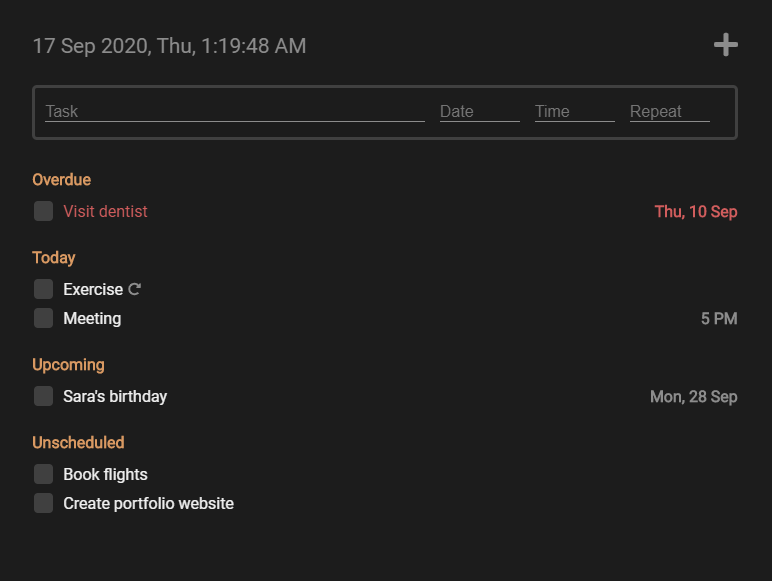
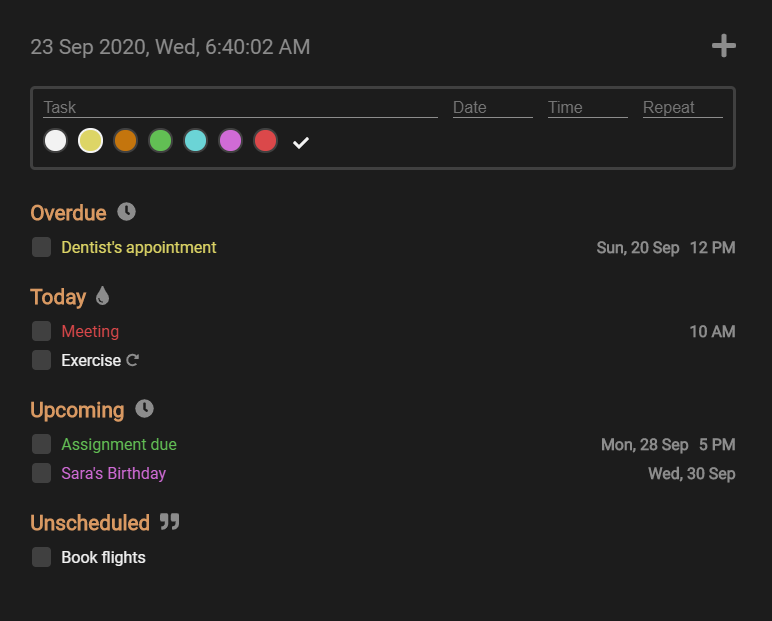
Lists can now be sorted

diff --git a/src/components/screens/MainScreen.tsx b/src/components/screens/MainScreen.tsx
@@ -4,6 +4,7 @@ import { useSelector } from "react-redux";
 import Todo from "../Todo";
 import TopBar from "../Topbar";
 import AddTodoBox from "../AddTodoBox";
+import Category from "../Category";
 import { getTodos } from "../../selectors";
 
 const MainScreen: React.FC = () => {
@@ -14,12 +15,6 @@ const MainScreen: React.FC = () => {
   let upcomingTodoList = [];
   let unscheduledTodoList = [];
   let overdueTodoList = [];
-
-  const dateSorter = (a: any, b: any) => {
-    let dateA = new Date(a.props.todo.date + " " + a.props.todo.time);
-    let dateB = new Date(b.props.todo.date + " " + b.props.todo.time);
-    return dateA.getTime() - dateB.getTime();
-  };
 
   const isToday = (dateTimeString: string) => {
     let currDate = new Date(new Date().toDateString());
@@ -49,33 +44,15 @@ const MainScreen: React.FC = () => {
     }
   }
 
-  // sort the lists
-  todayTodoList.sort(dateSorter);
-  overdueTodoList.sort(dateSorter);
-  upcomingTodoList.sort(dateSorter);
-
-  const renderCategory = (title: string, list: any[]) => {
-    if (list.length > 0) {
-      return (
-        <div className="category-container">
-          <h1 className="category-heading">{title}</h1>
-          {list}
-        </div>
-      )
-    } else {
-      return null;
-    }
-  }
-
   return (
     <div className="display-container">
       <div className="display-content">
         <TopBar/>
         <AddTodoBox />
-        {renderCategory("Overdue", overdueTodoList)}
-        {renderCategory("Today", todayTodoList)}
-        {renderCategory("Upcoming", upcomingTodoList)}
-        {renderCategory("Unscheduled", unscheduledTodoList)}
+        <Category title="Overdue" todos={overdueTodoList} sort={1}/>
+        <Category title="Today" todos={todayTodoList} sort={0}/>
+        <Category title="Upcoming" todos={upcomingTodoList} sort={1}/>
+        <Category title="Unscheduled" todos={unscheduledTodoList} sort={2}/>
       </div>
     </div>
   )

diff --git a/src/components/Category.tsx b/src/components/Category.tsx
@@ -1,0 +1,59 @@
+import * as React from "react";
+import { useState } from "react"
+import { FontAwesomeIcon } from "@fortawesome/react-fontawesome"
+import { faTint, faClock, faQuoteRight } from "@fortawesome/free-solid-svg-icons"
+
+import { CategoryProps } from "../types";
+
+const Category: React.FC<CategoryProps> = ({ todos, title, sort }) => {
+
+  const [sorterIndex, setSorterIndex] = useState(sort);
+
+  const sorters = [
+    (a: any, b: any) => { // color sorter
+      return (a.props.todo.color.localeCompare(b.props.todo.color));
+    },
+    (a: any, b: any) => { // date sorter
+      let dateA = new Date(a.props.todo.date + " " + a.props.todo.time);
+      let dateB = new Date(b.props.todo.date + " " + b.props.todo.time);
+      return dateA.getTime() - dateB.getTime();
+    },
+    (a: any, b: any) => { // body sorter
+      return (a.props.todo.body.localeCompare(b.props.todo.body));
+    },
+  ];
+
+  const cycleSorter = () => {
+    setSorterIndex((sorterIndex + 1) % sorters.length);
+  }
+
+  const renderCycleButton = () => {
+    const icons = [
+      <FontAwesomeIcon icon={faTint} onClick={cycleSorter} />,
+      <FontAwesomeIcon icon={faClock} onClick={cycleSorter} />,
+      <FontAwesomeIcon icon={faQuoteRight} onClick={cycleSorter} />
+    ];
+    return (
+      <div>
+        {icons[sorterIndex]}
+      </div>
+    )
+  }
+
+  if (todos.length > 0) {
+    return (
+      <div className="category-container">
+        <div className="category-header">
+          <h1 className="category-heading">{title}</h1>
+          {renderCycleButton()}
+        </div>
+        {[...todos].sort(sorters[sorterIndex])}
+
+      </div>
+    )
+  } else {
+    return null;
+  }
+}
+
+export default Category;

diff --git a/src/components/Todo.tsx b/src/components/Todo.tsx
@@ -2,7 +2,7 @@ import * as React from "react";
 import { useState, useEffect } from "react"
 import { useDispatch } from "react-redux";
 import { FontAwesomeIcon } from "@fortawesome/react-fontawesome"
-import { faTrash, faRedoAlt, faCheck } from '@fortawesome/free-solid-svg-icons'
+import { faTrash, faRedoAlt, faCheck } from "@fortawesome/free-solid-svg-icons"
 
 import { TodoProps } from "../types";
 import { Todo as TodoInterface } from "../types";
@@ -35,12 +35,6 @@ const Todo: React.FC<TodoProps> = ({todo, id, shouldDisplayDate, shouldDisplayTi
     setRepeatText(todoAdder ? "" : todo.repeat);
     setModifying(true);
   }
-
-  useEffect(() => {
-    if (todo) {
-      console.log(todo);
-    }
-  });
 
   const handleSubmit = (e: React.FormEvent) => {
     e.preventDefault();

diff --git a/src/styles/_components.scss b/src/styles/_components.scss
@@ -3,10 +3,23 @@
   margin-bottom: 25px;
 }
 
-.category-heading {
-  font-size: 1em;
-  font-family: var(--heading-font);
+.category-header {
+  display: flex;
+  flex-direction: row;
+  align-items: center;
   margin-bottom: 10px;
+  * {
+    margin-right: 10px;
+  }
+  svg {
+    font-size: 1.2em;
+    color: var(--tertiary-color);
+  }
+}
+
+.category-heading {
+  font-size: 1.3em;
+  font-family: var(--heading-font);
   color: var(--accent-color);
 }
 

diff --git a/src/slices/globals.ts b/src/slices/globals.ts
@@ -3,7 +3,7 @@ import { createSlice, PayloadAction } from "@reduxjs/toolkit"
 import { GlobalsState } from "../types";
 
 const initialState: GlobalsState = {
-  toggleTodoAddBox: true,
+  toggleTodoAddBox: false,
 };
 
 const globalsSlice = createSlice({

diff --git a/src/types/index.ts b/src/types/index.ts
@@ -31,3 +31,9 @@ export interface RootState {
 export interface TodoStateInterface {
   [key: string]: Todo
 }
+
+export interface CategoryProps {
+  todos: any[],
+  title: string,
+  sort: number
+}

diff --git a/README.md b/README.md
@@ -31,6 +31,7 @@ Tasks that do not have a deadline are put into this section.
 ## Tiny features
 
 - Optionally add date/time/repeat
+- You can sort the categories according to date/time, color and todo body by click the button on the side of category headings
 - Date
   - Writing `t` in date section adds today's date to the task date
   - Writing `tom` in date section adds tomorrow's date to the task date
@@ -42,6 +43,7 @@ Tasks that do not have a deadline are put into this section.
 
 - Not fully tested on Linux (partial) and Mac OS (none)
 - The todos are stored in `destined-todos.json` file in the main directory keep a backup of it
+- **`v1` destined todos file is not compatible with `v2` and so on**
 
 ## Installation
 
@@ -72,7 +74,6 @@ npm run build-osx
 #### TODO
 
 - Setting passed date on todo forwards to next year unless specified
-- Sorting tasks based on body, date/time, color
 - Put tasks to overdue section as soon as date AND time passes not just the date
 - Use local fonts instead of Google fonts
 - An alarm/notification system
